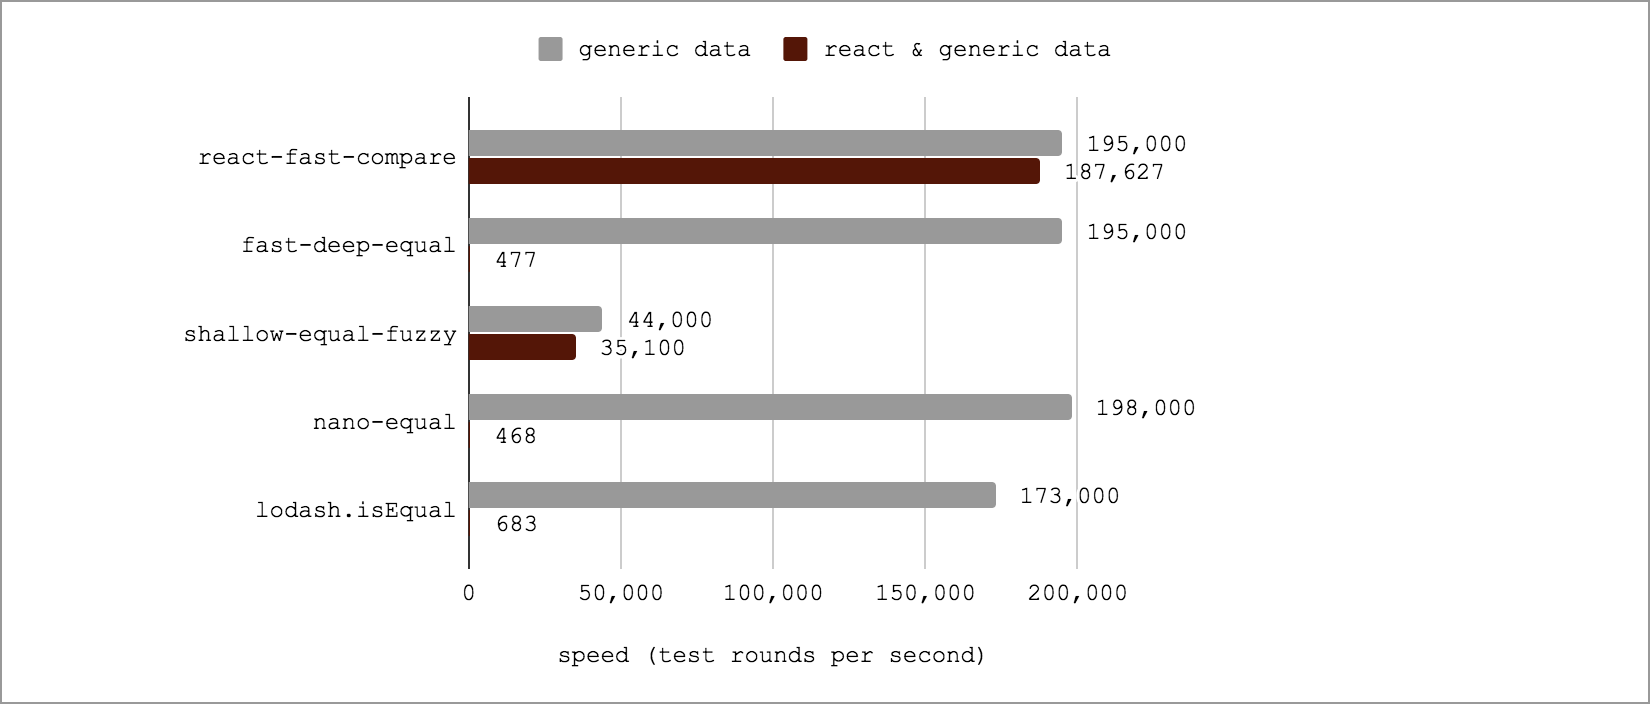
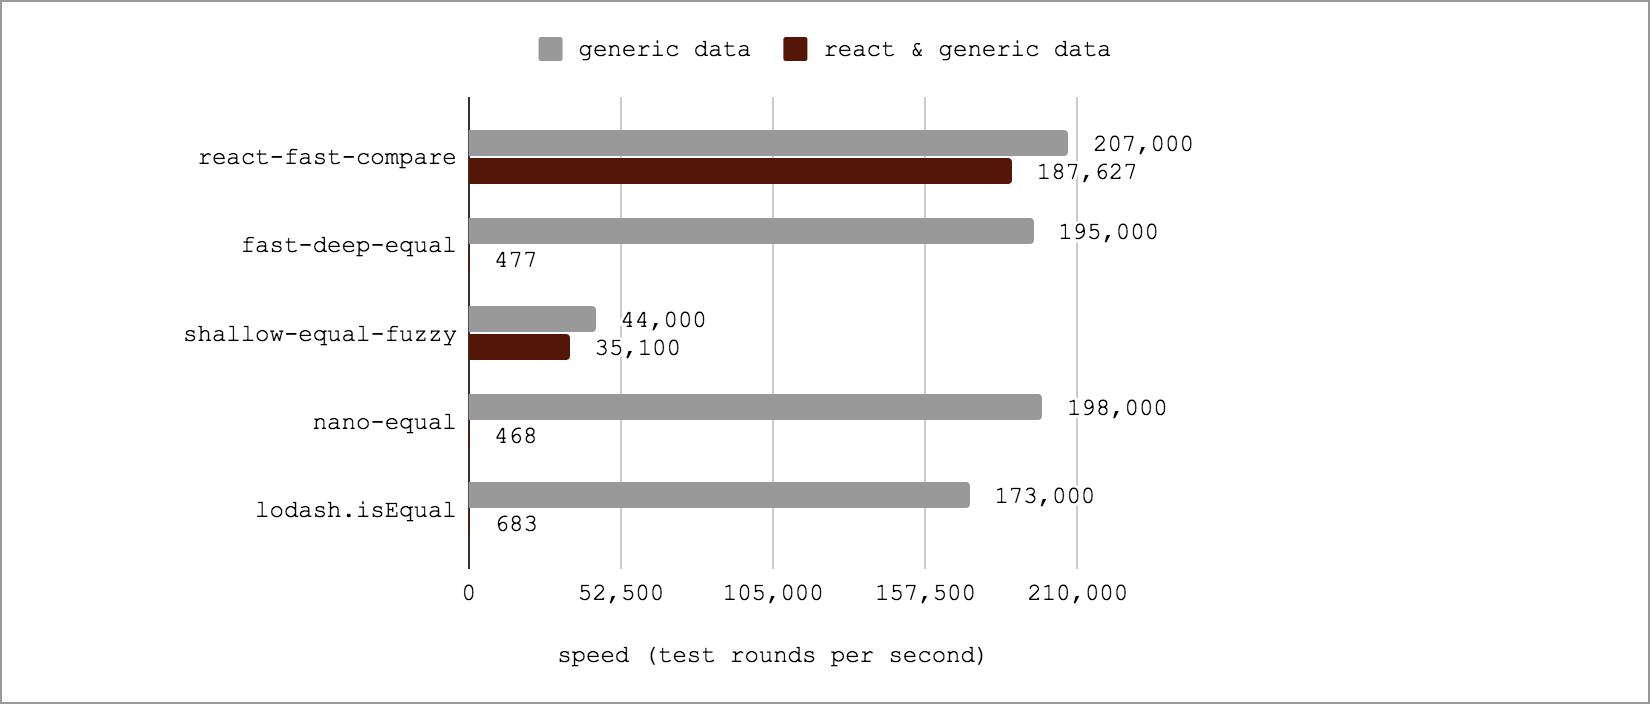
Update benchmarking data in README.md
* Add updated benchmarking chart

diff --git a/README.md b/README.md
@@ -83,12 +83,12 @@ simply because there are more tests in each operation.
 ### Generic Data
 
 ```
-react-fast-compare x 161,872 ops/sec ±1.18% (82 runs sampled)
-fast-deep-equal x 159,889 ops/sec ±1.62% (85 runs sampled)
-lodash.isEqual x 30,750 ops/sec ±2.02% (86 runs sampled)
-nano-equal x 35,608 ops/sec ±1.55% (86 runs sampled)
-shallow-equal-fuzzy x 94,141 ops/sec ±1.80% (89 runs sampled)
-  fastest: react-fast-compare,fast-deep-equal
+react-fast-compare x 207,503 ops/sec ±0.54% (92 runs sampled)
+fast-deep-equal x 195,006 ops/sec ±0.70% (91 runs sampled)
+lodash.isEqual x 43,778 ops/sec ±0.55% (91 runs sampled)
+nano-equal x 198,036 ops/sec ±0.37% (95 runs sampled)
+shallow-equal-fuzzy x 173,023 ops/sec ±0.59% (95 runs sampled)
+  fastest: react-fast-compare
 ```
 
 `react-fast-compare` and `fast-deep-equal` should be the same speed for these
@@ -98,11 +98,11 @@ tests; any difference is just noise. `react-fast-compare` won't be faster than
 ### React and Generic Data
 
 ```
-react-fast-compare x 150,667 ops/sec ±1.86% (83 runs sampled)
-fast-deep-equal x 510 ops/sec ±1.67% (77 runs sampled)
-lodash.isEqual x 25,760 ops/sec ±1.63% (83 runs sampled)
-nano-equal x 629 ops/sec ±2.43% (80 runs sampled)
-shallow-equal-fuzzy x 454 ops/sec ±1.42% (79 runs sampled)
+react-fast-compare x 187,628 ops/sec ±0.58% (93 runs sampled)
+fast-deep-equal x 477 ops/sec ±0.55% (91 runs sampled)
+lodash.isEqual x 35,100 ops/sec ±0.16% (95 runs sampled)
+nano-equal x 468 ops/sec ±0.53% (94 runs sampled)
+shallow-equal-fuzzy x 684 ops/sec ±0.43% (92 runs sampled)
   fastest: react-fast-compare
 ```
 
